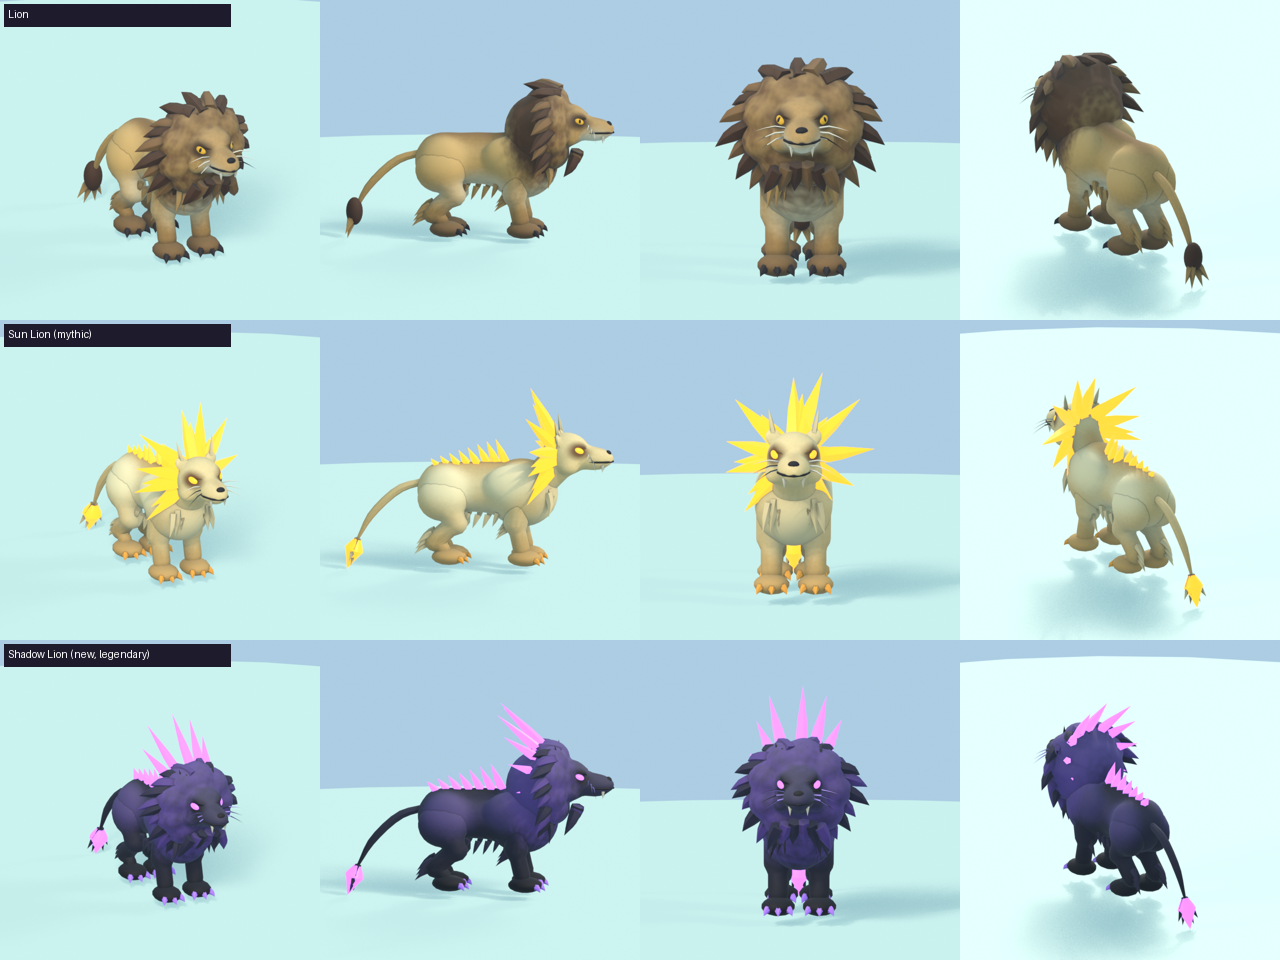
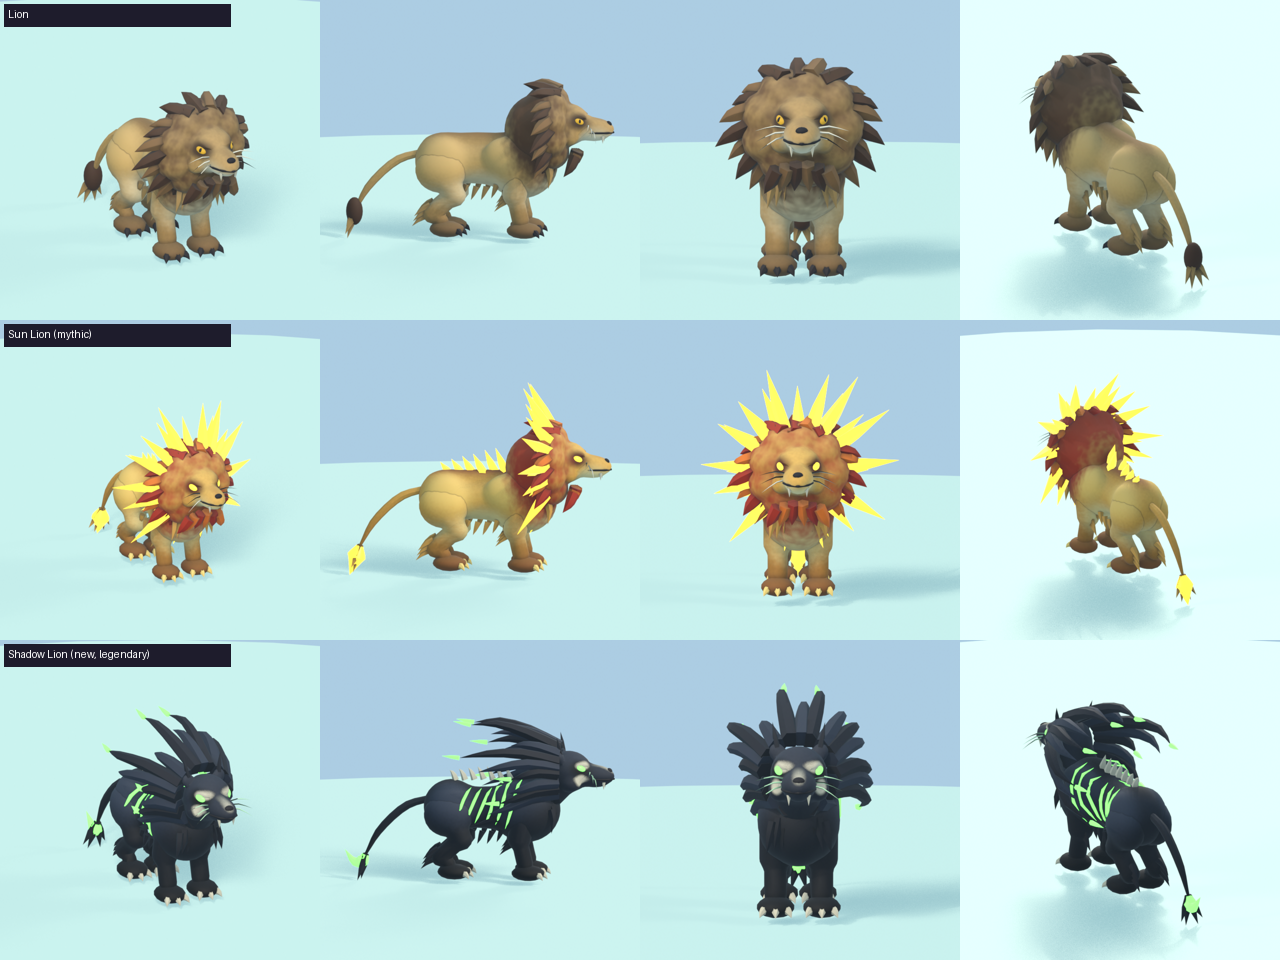
STATION-033: Sun Lion gets a full crimson mane and deep gold coat; Shadow Lion redesigned

diff --git a/tools/blender/stations/assets/animals.py b/tools/blender/stations/assets/animals.py
@@ -371,32 +371,38 @@ def lion_coat(c, hy, hz, belly, spine, hi, bridge, spots, paw):
     c["foot_rgb"] = paw
 
 
+SUNFIRE = (255, 196, 48)
+
+
 def lion(variant=False):
     c = dict(LION)
     hy, hz = -0.96 * 0.72 - 0.55, 2.0 + 0.96 * 0.42 + 0.72  # the head's middle
-    if not variant:  # the mane: a ruff of big locks behind the face, part of the head
-        c["head_extra"] = [((math.cos(a) * 0.72, hy + 0.5, hz - 0.1 + math.sin(a) * 0.72), 0.5, (1.0, 1.15, 1.0)) for a in [i / 9 * math.tau for i in range(9)]] + [((0, hy + 0.85, hz - 0.2), 0.95, (1.0, 0.9, 1.05))]
+    # the mane: a ruff of big locks behind the face, part of the head
+    c["head_extra"] = [((math.cos(a) * 0.72, hy + 0.5, hz - 0.1 + math.sin(a) * 0.72), 0.5, (1.0, 1.15, 1.0)) for a in [i / 9 * math.tau for i in range(9)]] + [((0, hy + 0.85, hz - 0.2), 0.95, (1.0, 0.9, 1.05))]
+    if not variant:
         c["skin"] = k.paint("li_tawny", [(0, (150, 110, 62)), (0.5, (196, 152, 86)), (1, (182, 140, 82))], 0, 3.8, rest=True, grain=(0.18, 15))
         c.update(iris=(240, 176, 36), socket=(70, 48, 30))
         lion_coat(c, hy, hz, (232, 206, 158), (140, 100, 54), (216, 172, 102), (122, 86, 52), (74, 48, 30), (112, 82, 50))
-    else:  # Sun Lion: pale gold, a mane of flames, burning eyes and tail
-        c["skin"] = k.paint("li_sun", [(0, (206, 160, 92)), (1, (246, 218, 150))], 0, 3.8, rest=True, grain=(0.12, 15))
-        c.update(iris=FLAME, socket=(120, 80, 40), glow_eyes=True, claw=(255, 170, 60))
-        lion_coat(c, hy, hz, (240, 216, 160), (214, 164, 90), (252, 232, 176), (190, 146, 92), (140, 94, 52), (206, 160, 92))
+    else:  # Sun Lion: a deep gold coat, a full mane of crimson and orange locks crowned in flame, a blazing tail
+        c["skin"] = k.paint("li_sun2", [(0, (150, 92, 36)), (0.5, (214, 152, 60)), (1, (232, 176, 80))], 0, 3.8, rest=True, grain=(0.18, 15))
+        c.update(iris=(255, 244, 190), socket=(96, 44, 20), glow_eyes=True, claw=(255, 214, 120))
+        lion_coat(c, hy, hz, (246, 214, 140), (146, 80, 34), (244, 196, 100), (170, 104, 46), (104, 54, 28), (132, 78, 34))
     lion_head(c, hy, hz)
     groups, torso, skull, hc = predator(c)
     if variant:
-        rng, glow = random.Random(5), k.glow(FLAME)
+        k.zone(c["skin"], (176, 52, 24), (0, hy + 0.75, hz - 0.15), (1.5, 0.95, 1.6), soft=0.25, jag=0.15)  # a crimson ruff
+        k.zone(c["skin"], (252, 226, 160), (0, hy - 0.75, hz - 0.35), (0.42, 0.5, 0.36), soft=0.4)  # pale muzzle
+        rng, glow = random.Random(5), k.glow(SUNFIRE)
         flames = []
-        for ring_r, n, long in ((0.62, 11, 1.25), (0.5, 8, 0.85)):
+        for ring_r, n, long in ((1.0, 14, 1.5), (0.78, 12, 1.2), (0.55, 8, 0.85)):  # three rings of flame, a crown
             for i in range(n):
-                a = i / n * math.tau + rng.uniform(-0.15, 0.15)
+                a = i / n * math.tau + rng.uniform(-0.12, 0.12)
                 d = Vector((math.cos(a), 0.55, math.sin(a) * 1.05)).normalized()
                 base = hc + Vector((math.cos(a) * ring_r, 0.42, math.sin(a) * ring_r))
                 flames.append(shard(base - d * 0.2, base + d * long * rng.uniform(0.75, 1.15), 0.2, glow))
-        for i in range(8):  # licks of flame along the spine and haunches, shorter towards the tail
-            base = Vector((rng.uniform(-0.1, 0.1), 0.45 + i * 0.26, c["chest_z"] + 0.8 - i * 0.03))
-            flames.append(shard(base, base + Vector((0, 0.3, 0.7 - i * 0.05)), 0.14, glow))
+        for i in range(6):  # licks of flame along the spine and haunches, shorter towards the tail
+            base = Vector((rng.uniform(-0.1, 0.1), 0.45 + i * 0.32, c["chest_z"] + 0.8 - i * 0.03))
+            flames.append(shard(base, base + Vector((0, 0.3, 0.7 - i * 0.06)), 0.14, glow))
         groups["head_glow"] += flames
         tip = c["tail_tip"]
         groups["tail_glow"] = [k.horn([tip, tip + Vector((0, 0.1, -0.3)), tip + Vector((0, 0.3, -0.85))], [0.1, 0.27, 0.0], glow, n=10, steps=8, name="flame")]
@@ -404,41 +410,61 @@ def lion(variant=False):
         k.zone(c["skin"], (92, 58, 34), (0, hy + 0.75, hz - 0.15), (1.5, 0.95, 1.6), soft=0.25, jag=0.15)  # the mane is darker
         k.zone(c["skin"], (236, 218, 180), (0, hy - 0.75, hz - 0.35), (0.42, 0.5, 0.36), soft=0.4)  # pale muzzle
         groups["tail"].append(k.blob(0.26, tuple(c["tail_tip"]), k.flat((70, 44, 28)), scale=(0.9, 0.9, 1.5), name="tuft"))
-    lion_fur(c, groups, skull, hc, (176, 136, 80) if not variant else (232, 206, 150), None if variant else ((74, 46, 28), (130, 92, 52)))
+    lion_fur(c, groups, skull, hc, (176, 136, 80) if not variant else (222, 160, 72), ((74, 46, 28), (130, 92, 52)) if not variant else ((176, 44, 22), (238, 116, 32)))
     return groups, c["joints"]
 
 
-SHADOW = (170, 90, 255)
+SHADOW = (110, 255, 90)  # a sickly green glow
 
 
 def shadow_lion(variant=True):
-    """Shadow Lion (legendary): a coal-black lion, the mane a swept-back ruff of black locks with violet
-    shards raking back from it and down the spine, violet eyes, claws and tail-tip."""
+    """Shadow Lion (legendary): a lean ink-black lion with a bone-white skull mask and spine, a mane of
+    long smoky tendrils streaming back, glowing green ribs, eyes and tail-wisp."""
     c = dict(LION)
     hy, hz = -0.96 * 0.72 - 0.55, 2.0 + 0.96 * 0.42 + 0.72
-    c["head_extra"] = [((math.cos(a) * 0.72, hy + 0.5, hz - 0.1 + math.sin(a) * 0.72), 0.5, (1.0, 1.15, 1.0)) for a in [i / 9 * math.tau for i in range(9)]] + [((0, hy + 0.85, hz - 0.2), 0.95, (1.0, 0.9, 1.05))]
-    c["skin"] = k.paint("li_shadow", [(0, (18, 16, 26)), (0.6, (40, 36, 56)), (1, (60, 52, 82))], 0, 3.8, rest=True, grain=(0.16, 15))
-    c.update(iris=SHADOW, socket=(8, 6, 14), glow_eyes=True, claw=(190, 130, 255))
-    lion_coat(c, hy, hz, (30, 26, 46), (10, 8, 18), (78, 62, 112), (12, 10, 20), (150, 110, 230), (10, 8, 16))
+    c["torso_extra"] = c["torso_extra"][:2]  # the shoulders, but no extra spine
+    c["torso_tris"] = 2300
+    c["skin"] = k.paint("li_shade", [(0, (10, 10, 14)), (0.6, (24, 26, 34)), (1, (36, 40, 52))], 0, 3.8, rest=True, grain=(0.2, 15))
+    c.update(iris=SHADOW, socket=(4, 6, 6), glow_eyes=True, claw=BONE)
+    lion_coat(c, hy, hz, (20, 22, 28), (6, 6, 9), (48, 54, 68), (200, 192, 168), (190, 180, 154), (8, 8, 10))
     lion_head(c, hy, hz)
     groups, torso, skull, hc = predator(c)
-    k.zone(c["skin"], (92, 66, 140), (0, hy + 0.75, hz - 0.15), (1.5, 0.95, 1.6), soft=0.3, jag=0.2)  # the mane glints violet
+    m = c["skin"]
+    # the skull mask: bone over the brow, down the nose and over the cheek bones
+    for side in (-1, 1):
+        k.zone(m, BONE, (side * 0.3, hy - 0.42, hz + 0.22), (0.28, 0.2, 0.12), soft=0.3, jag=0.12, jag_scale=10)
+        k.zone(m, BONE, (side * 0.46, hy - 0.4, hz - 0.2), (0.12, 0.3, 0.16), soft=0.3, jag=0.12, jag_scale=10)
+    k.zone(m, BONE, (0, hy - 0.7, hz + 0.02), (0.17, 0.55, 0.15), soft=0.3, jag=0.1, jag_scale=10)
     rng, glow = random.Random(11), k.glow(SHADOW)
-    shards = []
-    for i in range(12):  # a crest raked back from the mane, longest at the top
-        a = i / 12 * math.tau + rng.uniform(-0.12, 0.12)
-        top = max(0.0, math.sin(a)) * 0.9
-        d = Vector((math.cos(a) * 0.5, 1.0, 0.3 + math.sin(a) * 0.7)).normalized()
-        base = hc + Vector((math.cos(a) * 0.62, 0.5, 0.15 + math.sin(a) * 0.62))
-        shards.append(shard(base, base + d * (0.9 + top + rng.uniform(0, 0.3)), 0.17, glow))
-    for i in range(7):  # and down the spine, shorter towards the tail
-        y = 0.55 + i * 0.3
-        base = Vector((0, y, c["chest_z"] + 0.78 - i * 0.02))
-        shards.append(shard(base, base + Vector((0, 0.35, 0.78 - i * 0.07)), 0.14, glow))
-    groups["head_glow"] += shards
+    tones = [k.flat((16, 18, 26)), k.flat((34, 40, 54))]
+    for i in range(20):  # the mane: long tendrils streaming back like smoke in a wind
+        a = i / 20 * math.tau + rng.uniform(-0.1, 0.1)
+        up = math.sin(a)
+        out = Vector((math.cos(a), 0, up))
+        base = hc + out * 0.8 + Vector((0, 0.45, 0))
+        d1 = Vector((out.x * 0.5, 0.9, out.z * 0.35 + 0.1))
+        d2 = Vector((out.x * 0.35, 0.95, out.z * 0.2 - 0.25 + max(0.0, up) * 0.35))
+        d3 = Vector((-out.x * 0.2, 0.9, -0.3 + max(0.0, up) * 0.25))
+        n = rng.uniform(0.7, 1.7)
+        p1 = base + d1 * 0.55 * n
+        p2 = p1 + d2 * 0.6 * n
+        p3 = p2 + d3 * 0.55 * n
+        groups["head"].append(k.horn([base - d1 * 0.2, p1, p2, p3], [0.2, 0.17, 0.11, 0.0], tones[i % 2], n=6, steps=6, name="lock"))
+        if i % 2 == 0:  # an ember drifting off the end of every second tendril
+            groups["head_glow"].append(shard(p3, p3 + d3 * 0.45 + Vector((0, 0.1, 0.12)), 0.07, glow))
+    for i in range(7):  # a spine of bone vertebrae, then a rib cage of glowing bands
+        y = 0.4 + i * 0.27
+        base = Vector((0, y, c["chest_z"] + 0.86 - abs(i - 3) * 0.015))
+        groups["body"].append(k.horn([base, base + Vector((0, 0.08, 0.2)), base + Vector((0, 0.18, 0.44 - i * 0.025))], [0.1, 0.07, 0.0], k.flat(BONE), n=5, steps=3, name="lock"))
+    bands = []
+    for y in (0.0, 0.3, 0.6, 0.9, 1.2, 1.5):  # each rib runs from the spine down the flank to the belly
+        for side in (-1, 1):
+            pts = [side_point(c, side * a, y + a * 0.004) for a in (14, 38, 62, 86, 110, 134)]
+            bands.append(k.vein(torso, pts, 0.05, glow, name="rib"))
+    groups["body_glow"] = bands
     tip = c["tail_tip"]
-    groups["tail_glow"] = [k.horn([tip, tip + Vector((0, 0.1, -0.3)), tip + Vector((0, 0.3, -0.85))], [0.1, 0.27, 0.0], glow, n=10, steps=8, name="flame")]
-    lion_fur(c, groups, skull, hc, (44, 38, 62), ((34, 28, 54), (84, 56, 130)), whisker=(190, 150, 255), seed=7)
+    groups["tail_glow"] = [k.horn([tip, tip + Vector((0, 0.1, -0.2)), tip + Vector((0.05, 0.35, -0.2)), tip + Vector((0, 0.6, 0.15))], [0.1, 0.2, 0.12, 0.0], glow, n=8, steps=8, name="wisp")]
+    lion_fur(c, groups, skull, hc, (20, 22, 30), None, whisker=(190, 235, 180), seed=7)
     return groups, c["joints"]
 
 
@@ -718,8 +744,8 @@ ASSETS = [
     asset("creature_cheetah", cheetah, False, 1.4, {}, "Cheetah: spotted sprinter."),
     asset("creature_cheetah_lightning", cheetah, True, 1.75, {"head_glow": BOLT, "body_glow": BOLT, "tail_glow": BOLT}, "Lightning Cheetah (mythic): storm coat, Neon bolts."),
     asset("creature_lion", lion, False, 1.7, {}, "Lion: heavy, maned.", 12500),
-    asset("creature_lion_sun", lion, True, 2.1, {"head_glow": FLAME, "tail_glow": FLAME}, "Sun Lion (mythic): a mane and tail of Neon flame.", 12500),
-    asset("creature_lion_shadow", shadow_lion, True, 1.9, {"head_glow": SHADOW, "tail_glow": SHADOW}, "Shadow Lion (legendary): coal black, violet shards raked back from the mane and down the spine.", 12500),
+    asset("creature_lion_sun", lion, True, 2.1, {"head_glow": SUNFIRE, "tail_glow": SUNFIRE}, "Sun Lion (mythic): deep gold, a crimson mane crowned in Neon flame.", 12500),
+    asset("creature_lion_shadow", shadow_lion, True, 1.9, {"head_glow": SHADOW, "body_glow": SHADOW, "tail_glow": SHADOW}, "Shadow Lion (legendary): ink black, a bone skull mask and spine, a mane of smoky tendrils, glowing green ribs.", 12500),
     asset("creature_meerkat", meerkat, False, 1.0, {}, "Meerkat: small and quick."),
     asset("creature_meerkat_storm", meerkat, True, 1.25, {"head_glow": STORM, "body_glow": STORM, "tail_glow": STORM}, "Storm Meerkat (legendary): Neon bands and tail charge."),
     asset("creature_tortoise", tortoise, False, 1.6, {}, "Tortoise: plated shell with a spiked rim."),

diff --git a/docs/game-design/game7-animals.md b/docs/game-design/game7-animals.md
@@ -64,8 +64,8 @@ player is about 5 tall).
 | Flamingo | Utility | uncommon | 30 / 10 / 30 / 65 / 50 / 15 | Tall pink wader, hooked black-tipped beak, hard stare. Two legs: its wings are built as the back legs. | 8 x 6 |
 | Phoenix Flamingo | | mythic | twist mana | Fire-red, with a crest, wing tips and tail of flame. | 11 x 8 |
 | Lion | Attack | rare | 55 / 90 / 40 / 25 / 70 / 30 | Heavy tawny cat with a big dark mane and a tufted tail. | 7 x 13 |
-| Sun Lion | | mythic | twist strength | Pale gold, a mane and tail of flame, burning eyes. | 11 x 16 |
-| Shadow Lion (concept, not in the game yet) | | legendary | twist speed | Coal-black coat, a violet-glinting mane, violet shards raked back from it and down the spine, violet eyes, claws and tail tip. Concept render: `docs/concepts/shadow-lion-concept.png`; the model is `creature_lion_shadow` in `tools/blender/stations/assets/animals.py`. | about 9 x 15 |
+| Sun Lion | | mythic | twist strength | Deep gold, a full crimson and orange mane crowned in three rings of flame, flame along the spine and tail, white-hot eyes. | 11 x 16 |
+| Shadow Lion (concept, not in the game yet) | | legendary | twist speed | Ink-black and lean, a bone-white skull mask and spine, a mane of long smoky tendrils streaming back with green embers, glowing green ribs, eyes and tail wisp. Concept render: `docs/concepts/shadow-lion-concept.png`; the model is `creature_lion_shadow` in `tools/blender/stations/assets/animals.py`. | about 9 x 15 |
 | Elephant (Titan) | Titan | legendary | 30 / 160 / 180 / 60 / 200 / 120 | War elephant: wide ears, heavy brow, long trunk and tusks. | 15 x 25 |
 | Frost Mammoth | | mythic | twist health | Pale and shaggy, huge glowing ice tusks, ice spikes down its back. | 20 x 30 |
 
